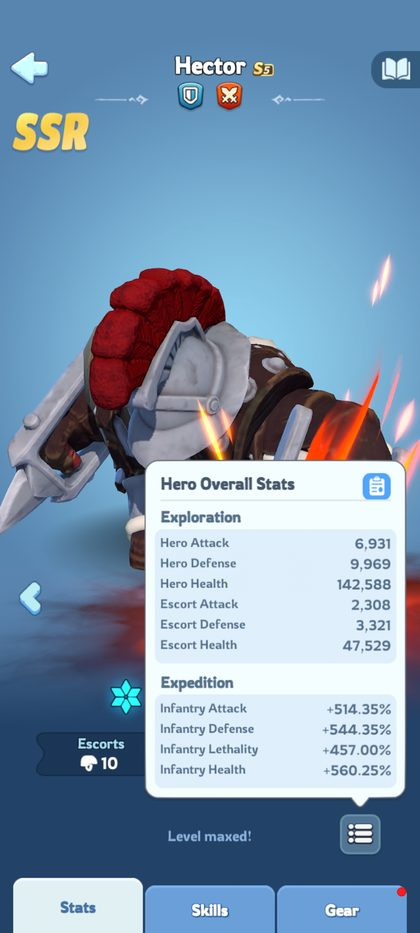
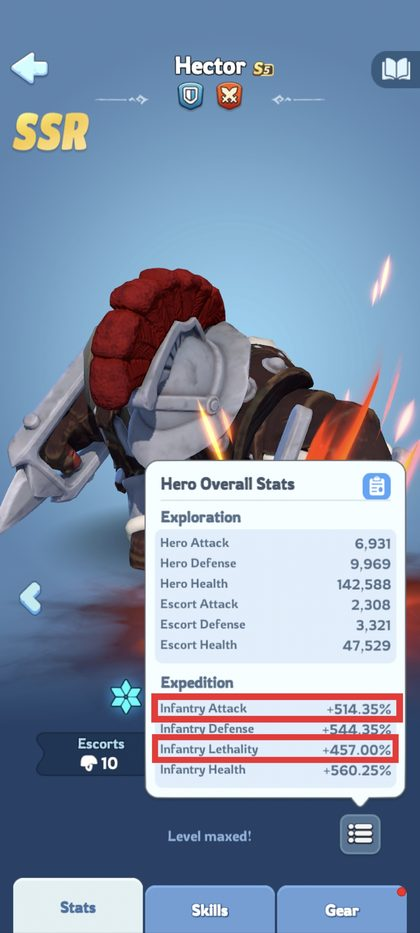
Base stats/gear: enter percentages exactly as shown, not as decimals (#8)
Users shouldn't have to do the percent-to-fraction conversion in their
head — type the number exactly as the game shows it (e.g. "482.39" for
"482.39%") and the calculator divides by 100 wherever it actually needs
the fraction (baseStatFor()/gearFor() in calculator.service.ts — the one
and only place that conversion happens now). Added a "%" suffix to each
of these fields and loosened their step to 0.01 to match.

Also updated the help-dialog screenshots with the user's own highlighted
versions: added a new "where's the power number" shot (the starting
point the steps referenced but never showed), and replaced the Bonus
Overview / gear-equipped / gear-unequipped shots with highlighted
versions pointing at the exact rows that matter.

diff --git a/src/app/features/bear-trap/bear-trap.ts b/src/app/features/bear-trap/bear-trap.ts
@@ -29,25 +29,26 @@ const HELP_CONTENT: Record<'power' | 'gear', HelpDialogData> = {
   power: {
     title: 'Where do I find these numbers?',
     steps: [
-      'Tap your power number to open Bonus Overview, then open (or scroll to) the Military section.',
-      "It lists 'Troops' Attack/Defense/Lethality/Health' — that's the 'All troops' row in this app — followed by the same four stats for each troop type (Infantry, Lancer, Marksman further down).",
-      'Enter each percentage here as a decimal — e.g. a bonus shown as 482.39% is entered as 4.8239.',
+      'Tap your power number (top of the main screen) to open Bonus Overview.',
+      'Open (or scroll to) the Military section — it lists \'Troops\' Attack/Defense/Lethality/Health\' (that\'s the \'All troops\' row in this app) followed by the same four stats for each troop type (Infantry, Lancer, Marksman further down).',
+      'Enter each percentage here exactly as shown, decimals included — e.g. a bonus shown as 482.39% is entered as 482.39. The app does the rest of the math.',
     ],
     images: [
-      { src: 'help/power-bonus-overview.jpg', alt: 'Bonus Overview screen, Military section, showing Troops’ and Infantry Attack/Defense/Lethality/Health percentages', caption: 'Bonus Overview → Military' },
+      { src: 'help/power-number-location.jpg', alt: 'Main screen top bar with the power number highlighted', caption: 'Tap this number' },
+      { src: 'help/power-bonus-overview.jpg', alt: 'Bonus Overview screen, Military section, with Troops’ Attack, Troops’ Lethality, and Infantry Attack highlighted', caption: 'Bonus Overview → Military' },
     ],
   },
   gear: {
     title: 'How do I read equipped vs. unequipped gear stats?',
     steps: [
       'Open any hero\'s Stats tab and tap the list icon to open Hero Overall Stats, then look at the Expedition section — it shows your account\'s current Attack/Defense/Lethality/Health for each troop type (this is the same for every hero, not specific to whoever you opened).',
-      'With a troop type\'s gear set unequipped, note that type\'s Attack and Lethality — enter those under \'Unequipped\'.',
+      'With a troop type\'s gear set unequipped, note that type\'s Attack and Lethality — enter those under \'Unequipped\', exactly as shown.',
       'Equip the full 4-piece set for that troop type, reopen the same popup, and note Attack and Lethality again — enter those under \'Equipped\'.',
-      'Repeat for each troop type. Defense and Health shown here aren\'t used by this calculator — just Attack and Lethality. The app subtracts unequipped from equipped for you.',
+      'Repeat for each troop type. Defense and Health shown here aren\'t used by this calculator — just Attack and Lethality. The app subtracts unequipped from equipped, and converts to the math it needs, for you.',
     ],
     images: [
-      { src: 'help/gear-unequipped.jpg', alt: 'Hero Overall Stats popup, Expedition section, with the troop gear set unequipped', caption: 'Unequipped' },
-      { src: 'help/gear-equipped.jpg', alt: 'Hero Overall Stats popup, Expedition section, with the troop gear set equipped', caption: 'Equipped' },
+      { src: 'help/gear-unequipped.jpg', alt: 'Hero Overall Stats popup, Expedition section, with the troop gear set unequipped, Infantry Attack and Lethality highlighted', caption: 'Unequipped' },
+      { src: 'help/gear-equipped.jpg', alt: 'Hero Overall Stats popup, Expedition section, with the troop gear set equipped, Infantry Attack and Lethality highlighted', caption: 'Equipped' },
     ],
   },
 };

diff --git a/src/app/features/bear-trap/bear-trap.html b/src/app/features/bear-trap/bear-trap.html
@@ -83,13 +83,15 @@
               <div class="stat-row">
                 <mat-form-field appearance="outline" class="tight-field">
                   <mat-label>Lethality</mat-label>
-                  <input matInput type="number" step="0.0001" [value]="baseStatValue(scope.key, 'lethality')"
+                  <input matInput type="number" step="0.01" [value]="baseStatValue(scope.key, 'lethality')"
                          (change)="updateBaseStat(scope.key, 'lethality', $any($event.target).valueAsNumber)" />
+                  <span matTextSuffix>%</span>
                 </mat-form-field>
                 <mat-form-field appearance="outline" class="tight-field">
                   <mat-label>Attack</mat-label>
-                  <input matInput type="number" step="0.0001" [value]="baseStatValue(scope.key, 'attack')"
+                  <input matInput type="number" step="0.01" [value]="baseStatValue(scope.key, 'attack')"
                          (change)="updateBaseStat(scope.key, 'attack', $any($event.target).valueAsNumber)" />
+                  <span matTextSuffix>%</span>
                 </mat-form-field>
               </div>
             </div>
@@ -113,13 +115,15 @@
                 <div class="stat-row">
                   <mat-form-field appearance="outline" class="tight-field">
                     <mat-label>Lethality</mat-label>
-                    <input matInput type="number" step="0.0001" [value]="gearValue(type.key, which, 'lethality')"
+                    <input matInput type="number" step="0.01" [value]="gearValue(type.key, which, 'lethality')"
                            (change)="updateGear(type.key, which, 'lethality', $any($event.target).valueAsNumber)" />
+                    <span matTextSuffix>%</span>
                   </mat-form-field>
                   <mat-form-field appearance="outline" class="tight-field">
                     <mat-label>Attack</mat-label>
-                    <input matInput type="number" step="0.0001" [value]="gearValue(type.key, which, 'attack')"
+                    <input matInput type="number" step="0.01" [value]="gearValue(type.key, which, 'attack')"
                            (change)="updateGear(type.key, which, 'attack', $any($event.target).valueAsNumber)" />
+                    <span matTextSuffix>%</span>
                   </mat-form-field>
                 </div>
               </div>

diff --git a/src/app/core/services/calculator.service.ts b/src/app/core/services/calculator.service.ts
@@ -47,19 +47,24 @@ function heroByName(name: string): BearTrapHero | undefined {
   return BEAR_TRAP_HEROES.find(h => h.name === name);
 }
 
+/** Sums the per-type and all-troops readings and converts from the
+ *  as-displayed percentage (482.39 for "482.39%") to the fraction the rest of
+ *  the formula works in (4.8239) — the one and only place that conversion
+ *  happens, so BaseStat/GearReading inputs always match what the game shows. */
 function baseStatFor(type: TroopType, inputs: BearTrapInputs): BaseStat {
   const perType = type === 'Inf' ? inputs.baseStats.inf : type === 'Lan' ? inputs.baseStats.lanc : inputs.baseStats.mark;
   const all = inputs.baseStats.allTroops;
-  return { lethality: perType.lethality + all.lethality, attack: perType.attack + all.attack };
+  return { lethality: (perType.lethality + all.lethality) / 100, attack: (perType.attack + all.attack) / 100 };
 }
 
-/** The delta the calculator actually needs — equipped minus unequipped — from
- *  the two raw readings the user enters (see GearReading's doc comment). */
+/** The delta the calculator actually needs — equipped minus unequipped,
+ *  converted from percentage to fraction — from the two raw readings the
+ *  user enters exactly as shown (see GearReading's doc comment). */
 function gearFor(type: TroopType, inputs: BearTrapInputs): BaseStat {
   const reading = type === 'Inf' ? inputs.gear.inf : type === 'Lan' ? inputs.gear.lanc : inputs.gear.mark;
   return {
-    lethality: reading.equipped.lethality - reading.unequipped.lethality,
-    attack: reading.equipped.attack - reading.unequipped.attack,
+    lethality: (reading.equipped.lethality - reading.unequipped.lethality) / 100,
+    attack: (reading.equipped.attack - reading.unequipped.attack) / 100,
   };
 }
 

diff --git a/src/app/core/models/bear-trap.model.ts b/src/app/core/models/bear-trap.model.ts
@@ -14,7 +14,13 @@ export interface HeroLevel {
   widget: number; // 0–10
 }
 
-/** Per-troop-type base stats read off the in-game power screen (account-wide, no heroes). */
+/**
+ * Per-troop-type base stats read off the in-game power screen (account-wide,
+ * no heroes). Values are the raw percentage the game shows, typed exactly as
+ * seen — e.g. a bonus displayed as "482.39%" is entered as 482.39, not 4.8239.
+ * The calculator divides by 100 wherever it uses these (see
+ * calculator.service.ts's baseStatFor()) — never ask the user to do that math.
+ */
 export interface BaseStat {
   lethality: number;
   attack: number;
@@ -27,10 +33,14 @@ export interface BaseStats {
   mark: BaseStat;
 }
 
-/** Lethality/Attack read off the gear comparison screen with a troop type's full
- *  gear set equipped, and again with it removed — the app computes the delta
- *  the calculator actually needs (see calculator.service.ts's gearFor()),
- *  rather than asking the user to subtract it themselves. */
+/**
+ * Lethality/Attack read off the gear comparison screen with a troop type's
+ * full gear set equipped, and again with it removed — the app computes both
+ * the delta and the percent-to-fraction conversion the calculator actually
+ * needs (see calculator.service.ts's gearFor()), rather than asking the user
+ * to do either. Values are the raw percentage as shown on screen (e.g. 482.39
+ * for "482.39%"), same as BaseStat above.
+ */
 export interface GearReading {
   equipped: BaseStat;
   unequipped: BaseStat;
